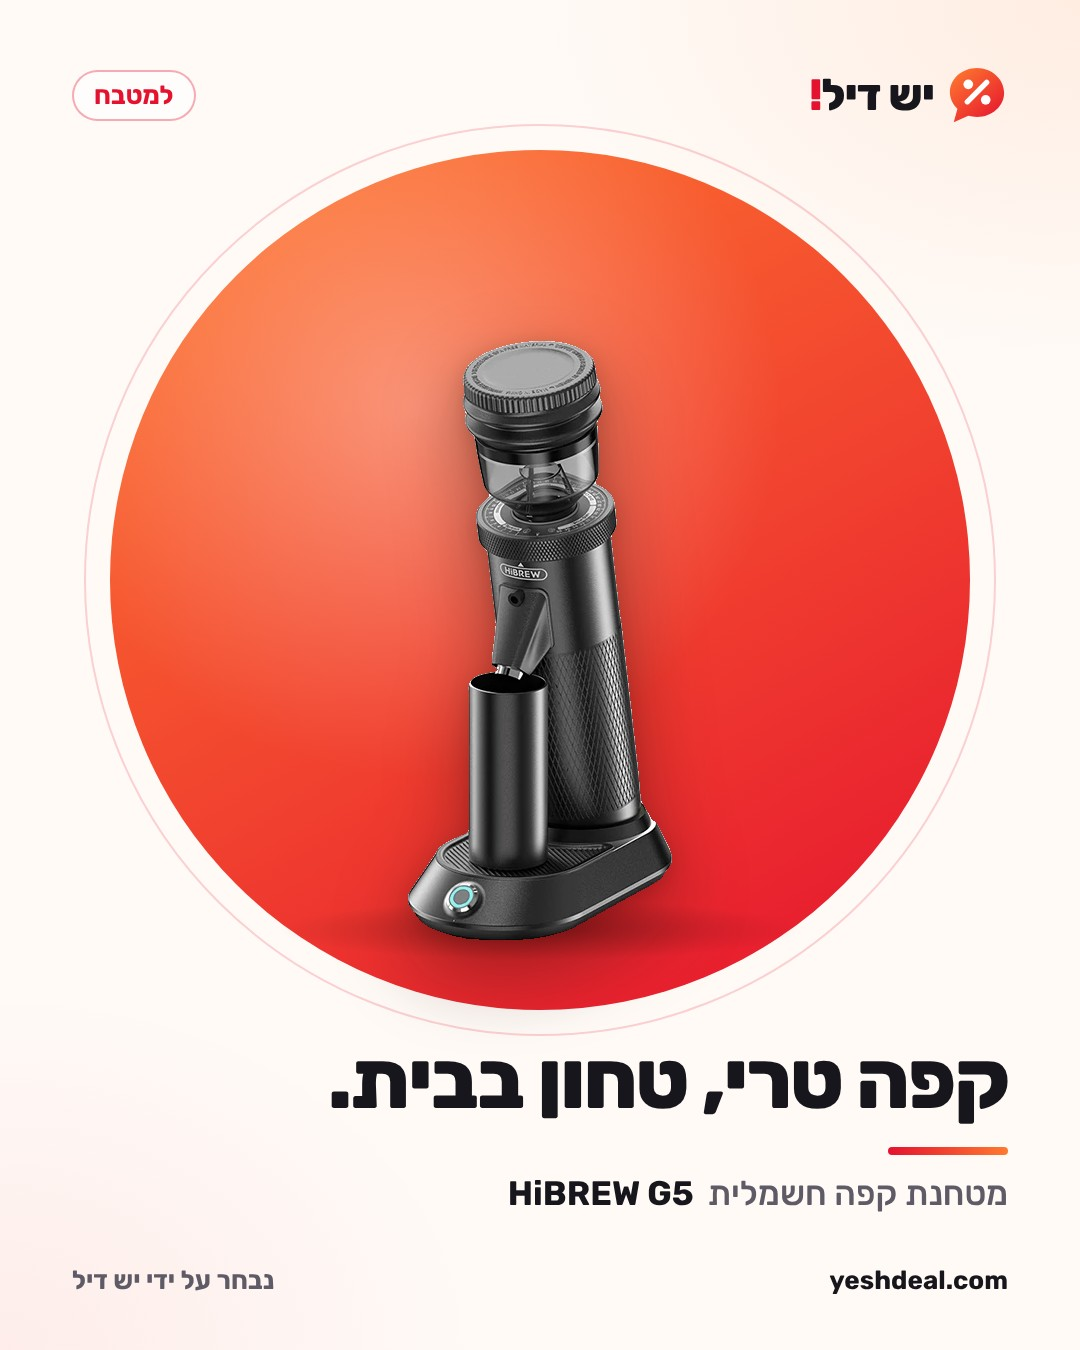
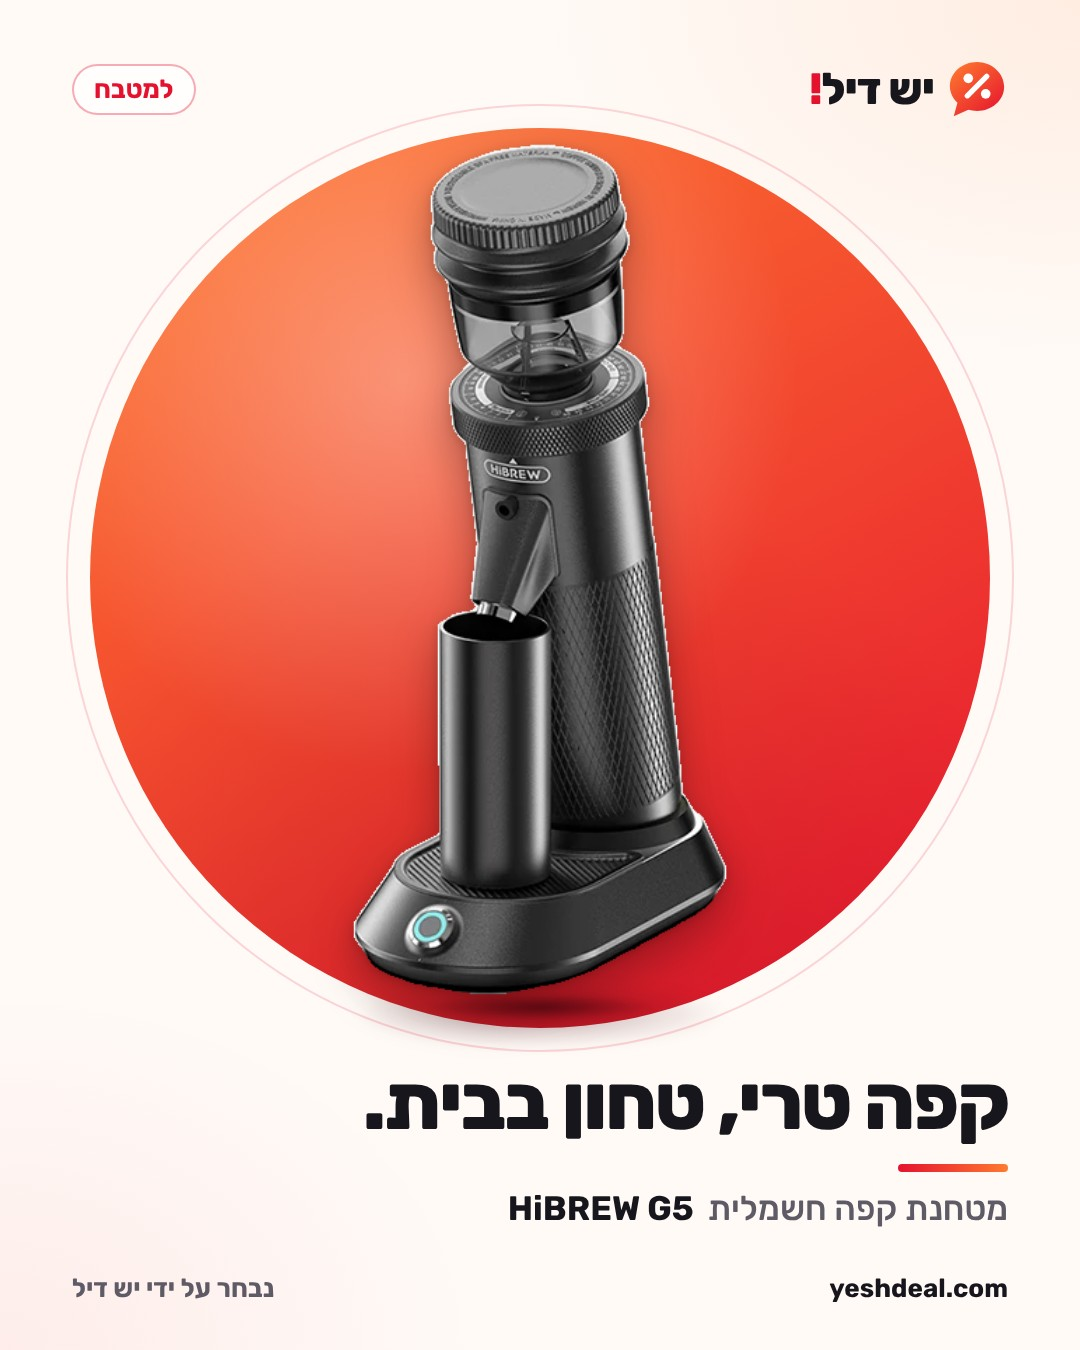
/test/ design system v1.1: product +22%, shape variants (tall/regular/wide), contact+soft grounding shadows, tighter spacing, optional price, curated footer flag; BiRefNet cut-out with mask cleanup; HiBREW + MIJIA samples
Claude-Session: https://claude.ai/code/session_01NfDHo72RPtPJiaFsFaN4vu

diff --git a/scripts/v2-cutout.py b/scripts/v2-cutout.py
@@ -1,28 +1,54 @@
-# Usage: python3 -I scripts/v2-cutout.py <in.jpg> <out.png> [<in2> <out2> ...]   (pip install "rembg[cpu]" scipy)
-# Product isolation for the YeshDeal visual system (free, local; no paid AI).
-# 1) remove background (rembg isnet)  2) keep only the largest connected object (drops seller text/logos)
-# 3) score the result (how dominant the main object is) so the engine can pick the cleanest gallery photo.
+# YeshDeal product cut-out (free, local, no paid AI). Usage:
+#   python3 -I scripts/v2-cutout.py <in.jpg> <out.png> [<in2> <out2> ...]
+#   needs: pip install "rembg[cpu]" scipy   (models download once, then run offline)
+#
+# Pipeline (designed to keep the product 100% original – only background pixels are removed):
+#  1. Segment with BiRefNet (best edge quality for cables/hoses); fallback ISNet.
+#  2. Clean the mask: drop thin attached strokes (seller text/arrows) with a small morphological opening,
+#     keep only the largest connected object, fill interior holes.
+#  3. Restore soft edges: use the model's own alpha only inside a 2px band around the cleaned mask (no halo, no jaggies).
+#  4. Trim to content + tiny padding. Report quality metrics so the engine can rank gallery photos.
 import sys, json
 import numpy as np
 from scipy import ndimage
 from rembg import remove, new_session
 from PIL import Image
-sess = new_session('isnet-general-use')
-res = []
+
+def session():
+    for name in ('birefnet-general-lite', 'isnet-general-use'):
+        try:
+            return name, new_session(name)
+        except Exception:
+            continue
+    raise SystemExit('no segmentation model available')
+
+MODEL, SESS = session()
+out = []
 for src, dst in zip(sys.argv[1::2], sys.argv[2::2]):
     im = Image.open(src).convert('RGB')
-    out = remove(im, session=sess, post_process_mask=True)
-    a = np.array(out)[:, :, 3] > 40
-    lab, n = ndimage.label(ndimage.binary_closing(a, iterations=3))
-    if n == 0: res.append({'src': src, 'score': 0}); continue
-    sizes = ndimage.sum(a, lab, range(1, n + 1))
-    k = int(np.argmax(sizes)) + 1
-    keep = lab == k
-    total = a.sum(); main = sizes[k - 1]
-    arr = np.array(out); arr[:, :, 3] = np.where(keep, arr[:, :, 3], 0)
-    o = Image.fromarray(arr); bb = o.getbbox(); o = o.crop(bb)
-    o.save(dst)
     w, h = im.size
-    res.append({'src': src, 'dst': dst, 'dominance': round(float(main / total), 3), 'coverage': round(float(main / (w * h)), 3), 'parts': n,
-                'score': round(float(main / total) * min(1.0, float(main / (w * h)) / 0.12), 3)})
-print(json.dumps(res))
+    cut = remove(im, session=SESS)
+    alpha = np.array(cut)[:, :, 3].astype(np.float32) / 255
+    hard = alpha > 0.5
+    k = max(2, round(min(w, h) / 220))                       # stroke size relative to image
+    opened = ndimage.binary_opening(hard, structure=np.ones((k, k)))
+    lab, n = ndimage.label(opened)
+    if n == 0:
+        out.append({'src': src, 'ok': False, 'reason': 'empty'}); continue
+    sizes = ndimage.sum(opened, lab, range(1, n + 1))
+    main = lab == (int(np.argmax(sizes)) + 1)
+    main = ndimage.binary_fill_holes(ndimage.binary_dilation(main, iterations=k))  # give back the edge the opening took
+    band = ndimage.binary_dilation(main, iterations=2) & ~ndimage.binary_erosion(main, iterations=2)
+    a = np.where(main & ~band, 1.0, 0.0)
+    a = np.where(band, alpha * ndimage.binary_dilation(main, iterations=2), a)
+    rgba = np.dstack([np.array(im), (np.clip(a, 0, 1) * 255).astype(np.uint8)])
+    o = Image.fromarray(rgba, 'RGBA')
+    bb = o.getbbox()
+    pad = round(0.01 * max(w, h))
+    o = o.crop((max(0, bb[0] - pad), max(0, bb[1] - pad), min(w, bb[2] + pad), min(h, bb[3] + pad)))
+    o.save(dst)
+    total = hard.sum()
+    kept = float(main.sum())
+    out.append({'src': src, 'dst': dst, 'model': MODEL, 'size': o.size, 'dominance': round(kept / max(total, 1), 3),
+                'coverage': round(kept / (w * h), 3), 'aspect': round(o.size[0] / o.size[1], 3), 'parts': int(n)})
+print(json.dumps(out))
